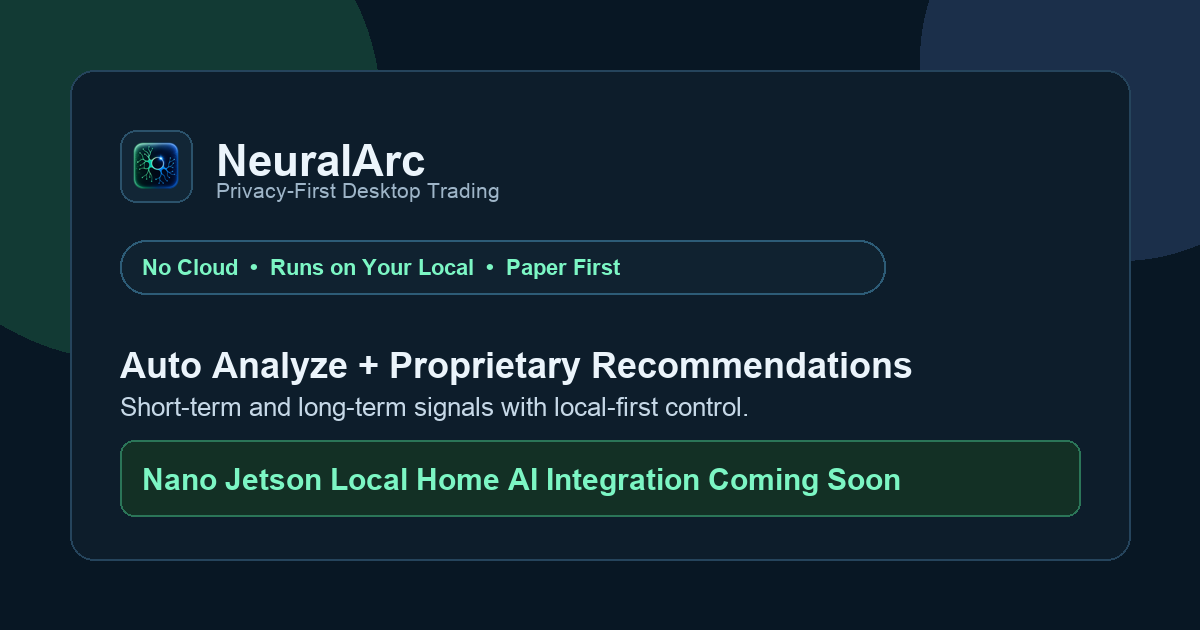
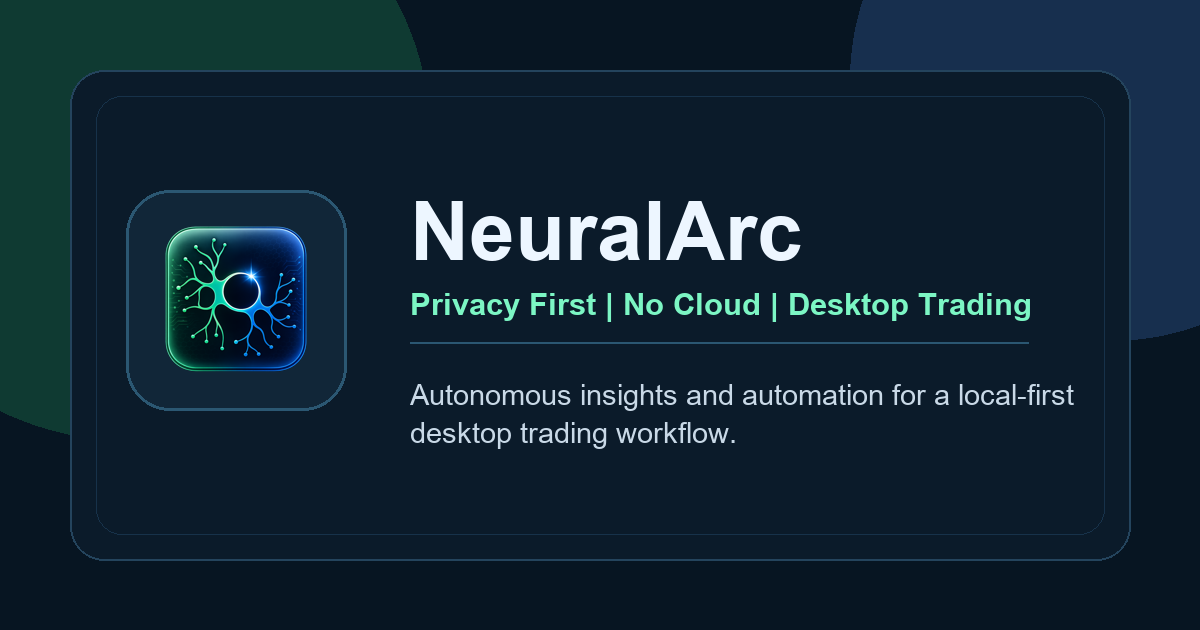
OG Chnage

diff --git a/scripts/generate-og-image.py b/scripts/generate-og-image.py
@@ -17,36 +17,35 @@ def main() -> None:
     logo_path = docs / "logo.png"
 
     w, h = 1200, 630
-    img = Image.new("RGB", (w, h), "#081724")
+    img = Image.new("RGB", (w, h), "#071522")
     draw = ImageDraw.Draw(img)
 
-    draw.ellipse((-120, -140, 380, 360), fill="#123a34")
-    draw.ellipse((920, -140, 1320, 260), fill="#1b2f4a")
-    draw.rounded_rectangle((70, 70, 1130, 560), radius=24, fill="#0d1d2b", outline="#25445c", width=2)
+    draw.ellipse((-170, -160, 430, 440), fill="#0f3a32")
+    draw.ellipse((850, -180, 1370, 340), fill="#172f4e")
+    draw.rounded_rectangle((70, 70, 1130, 560), radius=34, fill="#0b1b2a", outline="#24445d", width=2)
+    draw.rounded_rectangle((96, 96, 1104, 534), radius=26, outline="#17324a", width=1)
 
-    draw.rounded_rectangle((120, 130, 192, 202), radius=16, fill="#122636", outline="#2b526b", width=2)
+    logo_box = (126, 190, 346, 410)
+    draw.rounded_rectangle(logo_box, radius=44, fill="#112638", outline="#2b5772", width=3)
     if logo_path.exists():
-        logo = Image.open(logo_path).convert("RGBA").resize((52, 52))
-        img.paste(logo, (130, 140), logo)
+        logo = Image.open(logo_path).convert("RGBA").resize((164, 164))
+        img.paste(logo, (154, 218), logo)
 
-    f_title = load_font("/System/Library/Fonts/Supplemental/Arial Bold.ttf", 44)
-    f_sub = load_font("/System/Library/Fonts/Supplemental/Arial.ttf", 21)
-    f_badge = load_font("/System/Library/Fonts/Supplemental/Arial Bold.ttf", 22)
-    f_line = load_font("/System/Library/Fonts/Supplemental/Arial Bold.ttf", 36)
-    f_note = load_font("/System/Library/Fonts/Supplemental/Arial.ttf", 26)
-    f_soon = load_font("/System/Library/Fonts/Supplemental/Arial Bold.ttf", 30)
+    f_title = load_font("/System/Library/Fonts/Supplemental/Arial Bold.ttf", 82)
+    f_tagline = load_font("/System/Library/Fonts/Supplemental/Arial Bold.ttf", 31)
+    f_desc = load_font("/System/Library/Fonts/Supplemental/Arial.ttf", 29)
 
-    draw.text((216, 136), "NeuralArc", fill="#ebf4fb", font=f_title)
-    draw.text((216, 178), "Privacy-First Desktop Trading", fill="#9eb5c8", font=f_sub)
-
-    draw.rounded_rectangle((120, 240, 885, 294), radius=26, fill="#102230", outline="#2d5c77", width=2)
-    draw.text((142, 255), "No Cloud  •  Runs on Your Local  •  Paper First", fill="#7cf6c4", font=f_badge)
-
-    draw.text((120, 345), "Auto Analyze + Proprietary Recommendations", fill="#ebf4fb", font=f_line)
-    draw.text((120, 392), "Short-term and long-term signals with local-first control.", fill="#c6d8e7", font=f_note)
-
-    draw.rounded_rectangle((120, 440, 1080, 516), radius=14, fill="#133025", outline="#2b7558", width=2)
-    draw.text((142, 462), "Nano Jetson Local Home AI Integration Coming Soon", fill="#7cf6c4", font=f_soon)
+    text_x = 410
+    draw.text((text_x, 185), "NeuralArc", fill="#edf6ff", font=f_title)
+    draw.text((text_x, 286), "Privacy First | No Cloud | Desktop Trading", fill="#7cf6c4", font=f_tagline)
+    draw.line((text_x, 342, 1028, 342), fill="#2b5772", width=2)
+    draw.text(
+        (text_x, 378),
+        "Autonomous insights and automation for a local-first",
+        fill="#c9d9e7",
+        font=f_desc,
+    )
+    draw.text((text_x, 416), "desktop trading workflow.", fill="#c9d9e7", font=f_desc)
 
     img.save(out, format="PNG")
     print(f"Generated {out}")
@@ -54,4 +53,3 @@ def main() -> None:
 
 if __name__ == "__main__":
     main()
-
